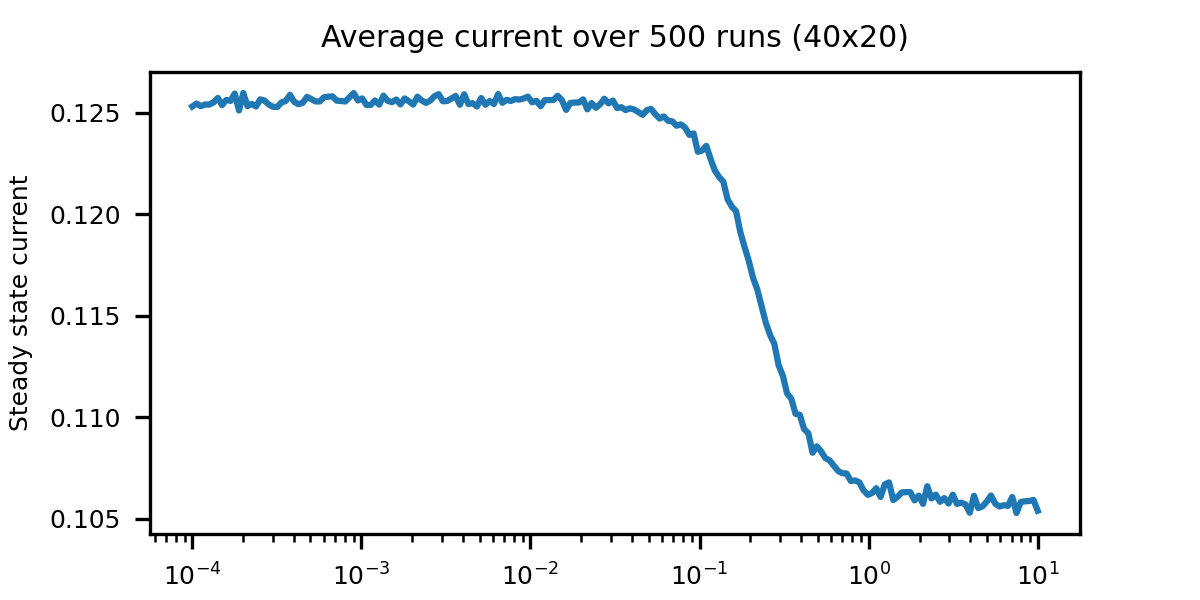
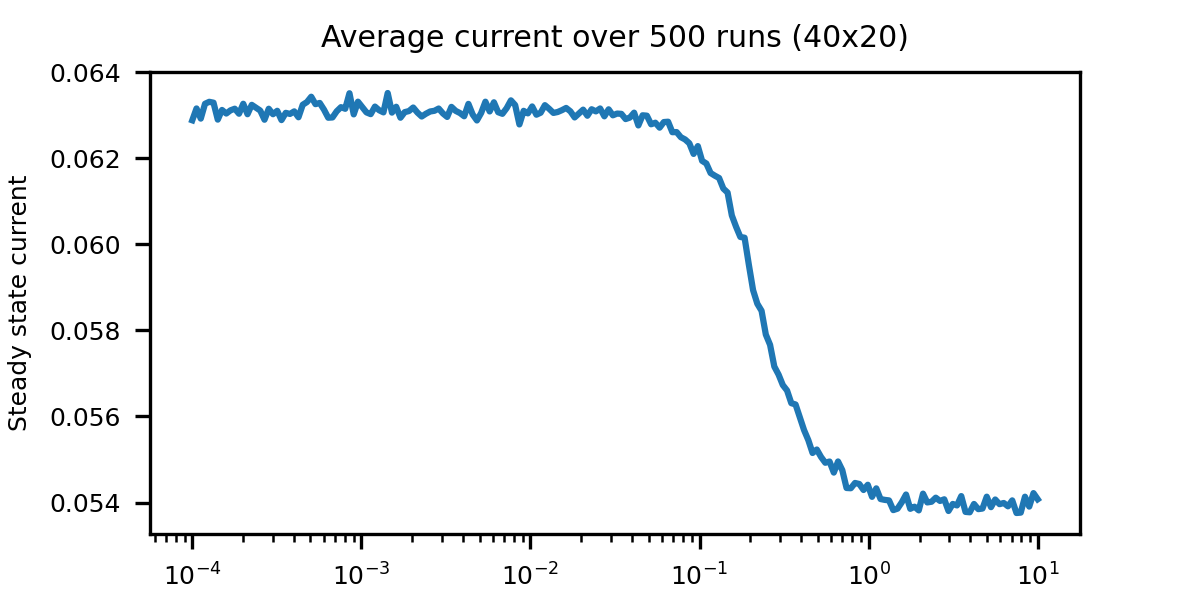
fix "empty timestep counting" for classical

diff --git a/TASEP Classical (no RL)/classical_with_speeds.py b/TASEP Classical (no RL)/classical_with_speeds.py
@@ -53,10 +53,8 @@ def simulate(sigma, log=True):
             dice = np.random.randint(Lx * Ly)  # Picks the random spin in the array
             x = dice // Ly
             y = dice - x * Ly
-            while system[x, y] == 0:
-                dice = np.random.randint(Lx * Ly)
-                x = dice // Ly
-                y = dice - x * Ly
+            if system[x, y] == 0:
+                continue
             # print(f"Chosen particle: {x}, {y}")
             # throw second dice from truncated normal that has to be less than the speed
             dice2 = np.random.random()
@@ -187,7 +185,7 @@ if __name__ == '__main__':
 
     # calc_indivual_sigmas()
     calc_sigma_vs_current()
-    # evaluate()
+    evaluate()
     # test_truncated_normal(0.01)
     # test_truncated_normal(0.1)
     # test_truncated_normal(0.5)
